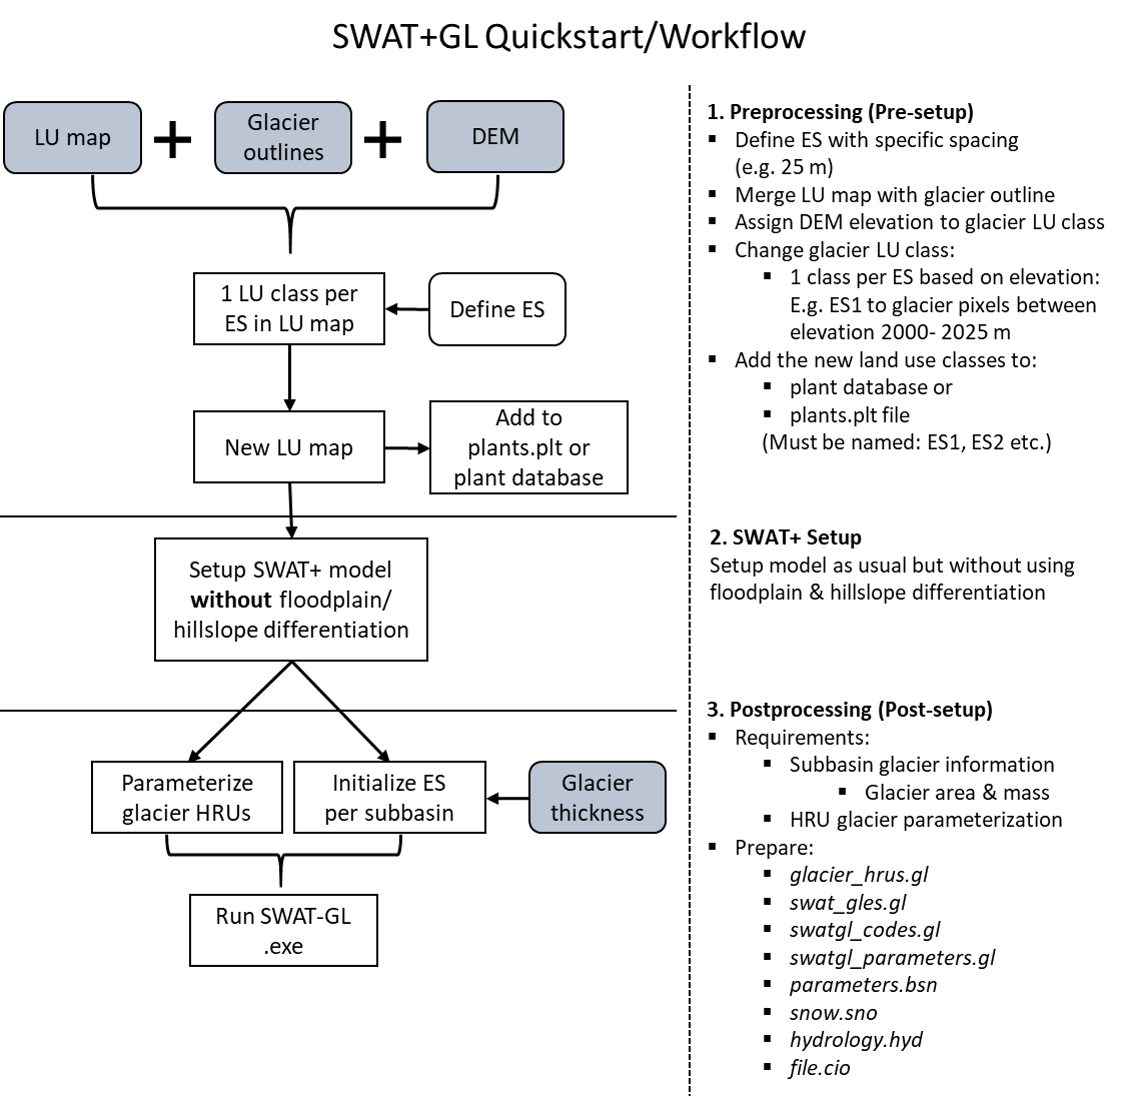
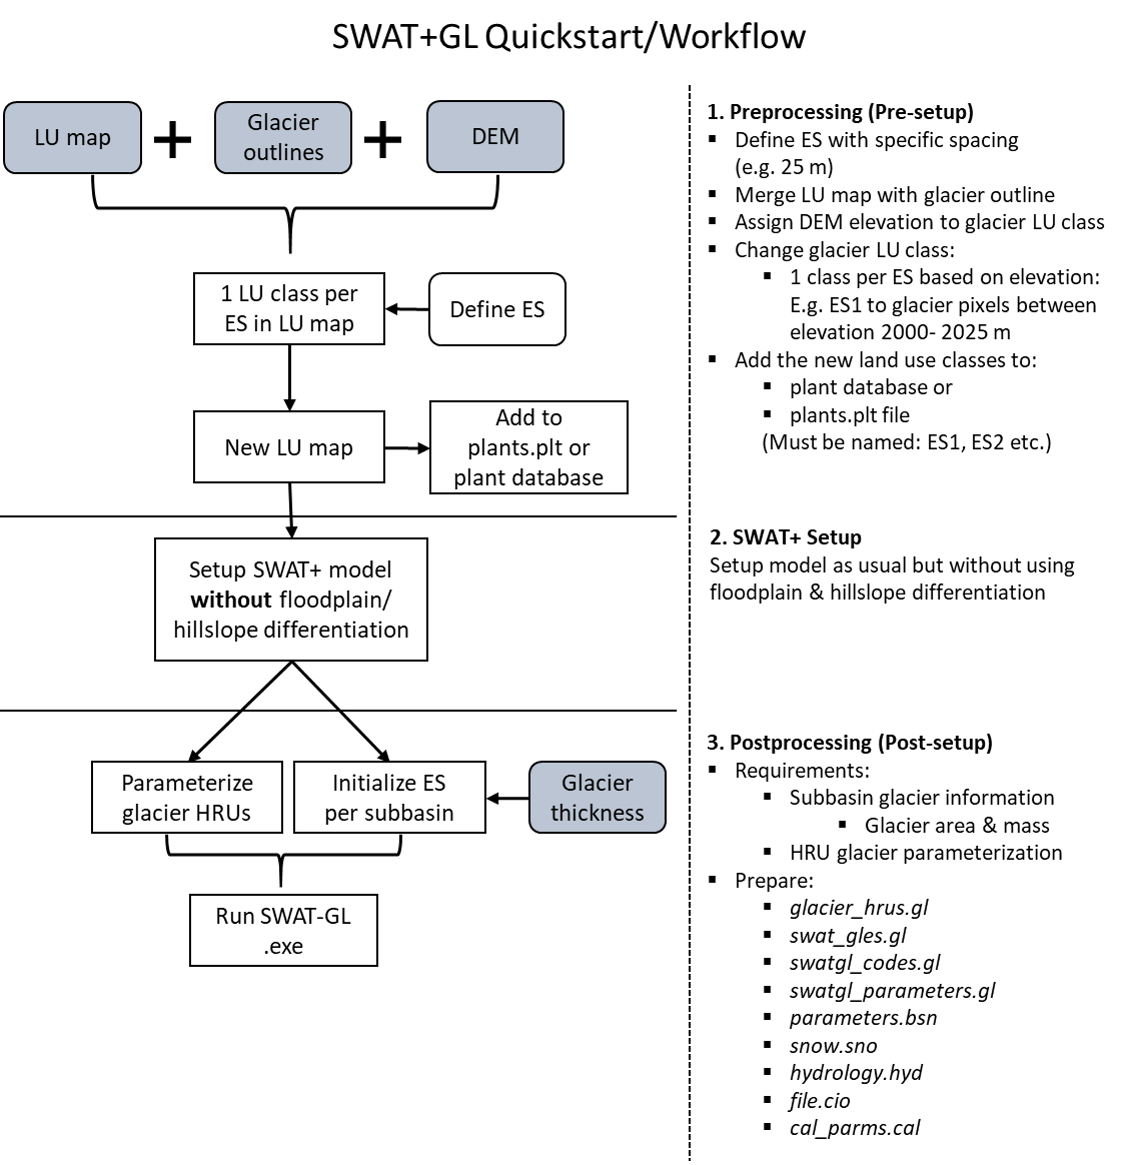
SWAT+GL Release

Changed region(s): [[0.0, 0.3409, 0.9251, 0.9918], [0.6167, 0.093, 0.9868, 0.5579], [0.0, 0.0, 0.7093, 0.3099]]

diff --git a/docs/README.md b/docs/README.md
@@ -36,7 +36,8 @@ Both datasets are needed for the initialization of SWAT+GL. Glacier outlines for
 4. *swatgl_parameters.gl*
 5. *snow.sno* (already existing but modified)
 6. *hydrology.hru* (already existing but modified)
-7. *file.cio* (already existing but modifies)
+7. *file.cio* (already existing but modified)
+8. *cal_parms.cal* (already existing but modified)
 
 File names are hard-coded and thus must be used as written above. One example file for each can be found in the documentation folder.
 <br/> 
@@ -56,7 +57,7 @@ The **swat_gles.gl** is used for the glacier mass initialization of SWAT+GL. The
 
 ## Calibration Files
 
-All newly introduced parameters are considered in the SWAT+ calibration scheme and can be incorporated in the *calibration.cal* file by using the names as they are in the corresponding header of the files (e.g. header in *glaciers_hru.gl*). Correspondingly, the cal_parm.cal file has to be extended by the SWAT+GL parameters before.<br/>
+All newly introduced parameters are considered in the SWAT+ calibration scheme and can be incorporated in the *calibration.cal* file by using the names as they are in the corresponding header of the files (e.g. header in *glaciers_hru.gl*). Correspondingly, the *cal_parm.cal* file has to be extended by the SWAT+GL parameters before.<br/>
 
 ## New & Modified Output Files
 
@@ -82,11 +83,11 @@ Next, the land use map has to be modified according to the defined spacing. If y
 Each newly defined land use class needs a unique ID in the land use map to be distinguished by SWAT later on. For example, if your original land use map had the ID "200" for glacier you could use the IDs "201" up to "210", if we assume again an ES number of 10.
 <br/>
 See the following example:<br/>
-<img title="" src="./images/martell_lulc.png" alt="" width=""> 
+<img title="" src="./images/martell_lulc.png" alt="" width="597"> 
 
 <figcaption>Fig. 1: Original Land Use Map</figcaption>
 
-<img title="Logo title" src="./images/martell_lulc_es.png" alt="" width=""> 
+<img title="Logo title" src="./images/martell_lulc_es.png" alt="" width="583"> 
 
 <figcaption>Fig. 2: Modified Land Use Map with 10 new classes, 1 per ES</figcaption>
 
@@ -237,7 +238,7 @@ The columns refer to HRU ID and 5 parameters:
 
 - *gl_lag*: Glacier lag factor [-]. Similar to TIMP or snowmelt lag
 
-## Snow File Modification: snow.sno
+### Snow File Modification: snow.sno
 
 To make use of the newly introduced snow melt routines. In total 4 new columns are added as shown in  
 
@@ -253,7 +254,7 @@ To make use of the newly introduced snow melt routines. In total 4 new columns a
 
 - *srfac_s*: Shortwave radiation factor for snow [mm m²/(d*W)]; Only used for ETI (sm_model= 2) <br/>
 
-## Hydrology File Modification: hydrology.hyd
+### Hydrology File Modification: hydrology.hyd
 
 To determine more hydrology parameters in a spatially distributed way, such as lapse rates and surface runoff lags, 3 new columns need to be added as shown in Fig. 9.
 
@@ -271,7 +272,7 @@ Fig. 9: Modification of hydrology.hyd file.
 
 * *tlaps*: Temperature lag factor [°C/m]; Similar to the global tlaps.
 
-## Basin Parameter File Modification: parameters.bsn
+### Basin Parameter File Modification: parameters.bsn
 
 To make use of the newly introduced hydrological changes such as spatially distributed lapse rates and surface runoff lags, 1 existing flag can be modified (lapse) and 1 new column has to be added (surlag_sd) as shown in Fig. 10. 
 
@@ -285,13 +286,21 @@ Fig. 10: Modification of parameters.bsn file.
 
 - *lapse*: The lapse rates flag is extended to provide lapse rates spatially distributed; 0 = no lapse rates / 1 = global lapse rates / 2 = HRU-based lapse rates (must be set in hydrology.hyd)
 
-## File Cio Modification: file.cio
+### File Cio Modification: file.cio
 
 In the file.cio file just add glacier_hrus.gl to the hydrology line as illustrated below.
 
-![](./images/swatgl_file_cio.png)
+<img src="./images/swatgl_file_cio.png" title="" alt="" width="601">
 
 <figcaption>Fig. 11: File.cio adaption.</figcaption>
+
+### Calibration Parameters File: cal_parms.cal
+
+Don't forget to extend the cal_parms file by the newly introduced parameters (see also example file under the examples folder in Git). The number of active parameter at the beginning of the file has to be increased accordingly as well.
+
+<img src="./images/cal_parms_cal.png" title="" alt="" width="590">
+
+<figcaption>Fig. 12: Cal_parms.cal modification. </figcaption>
 
 ## Model Run
 
